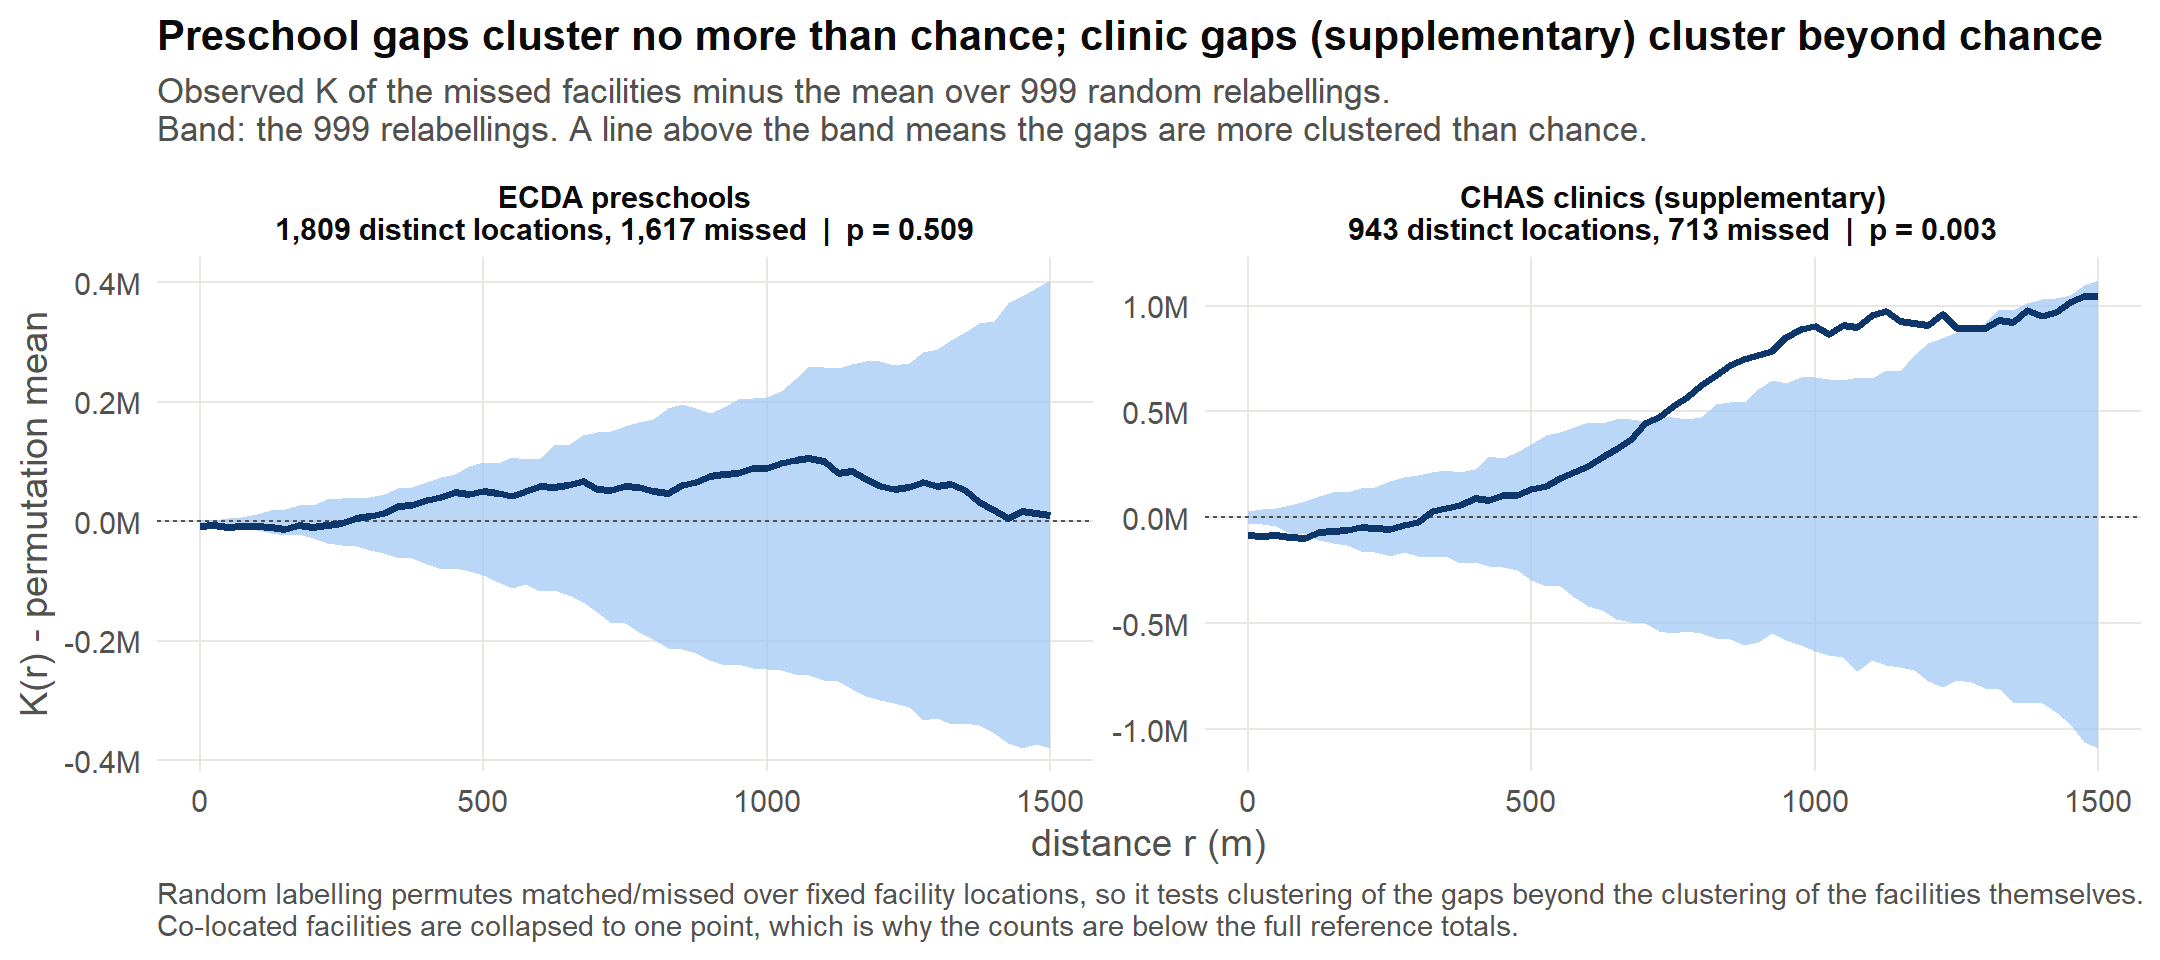
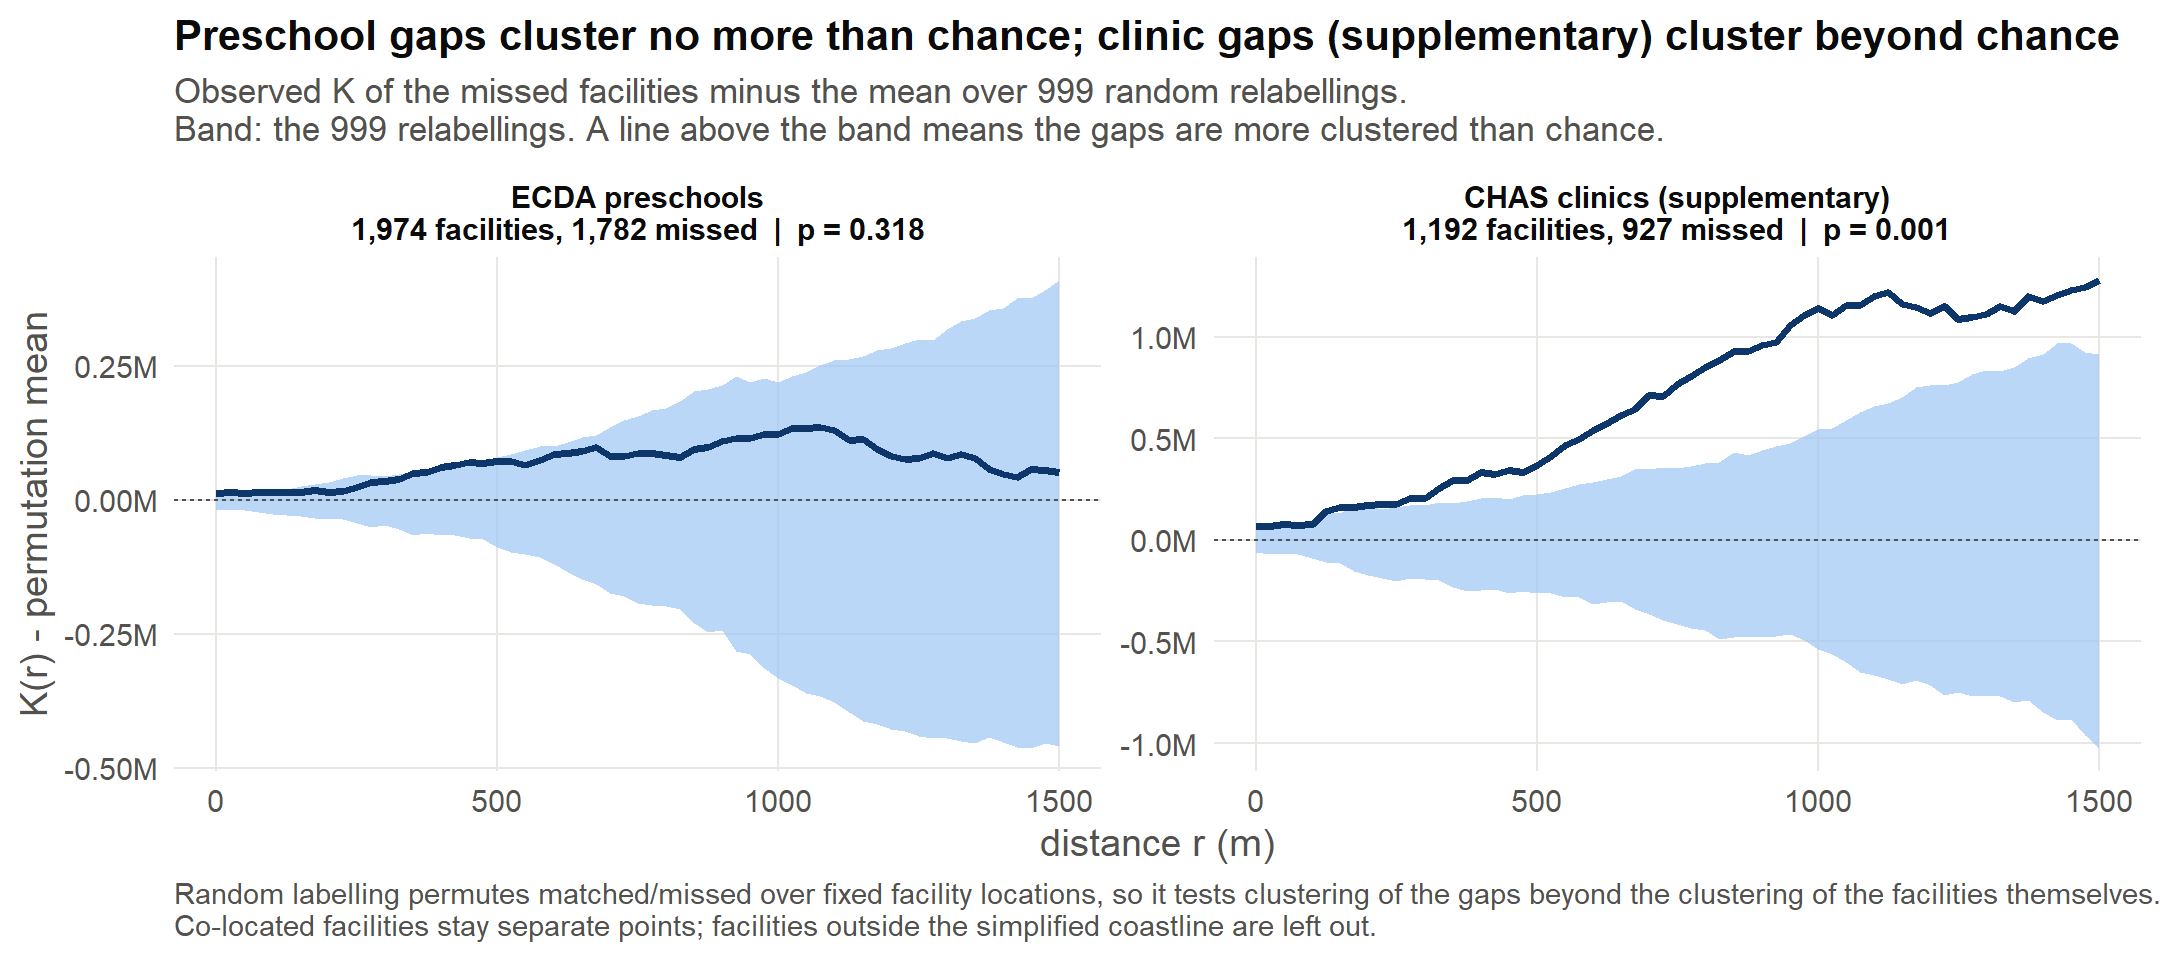
Keep co-located facilities in random labelling
unique.ppp() treats two points as duplicates only when their marks match
too. Run after the found/missed labels were attached, it collapsed
same-label pairs at one location (two missed preschools in one block)
but kept mixed pairs, so it thinned the pattern by the label under test
and removed the co-location clustering the test looks for. ECDA lost
165 points to it, all of them missed.

All facilities now stay as separate points; Kcross handles the
duplicates. The figure label and caption no longer speak of distinct
locations. The verdicts hold: ECDA n 1,809 -> 1,974, p 0.51 -> 0.32
(not clustered); CHAS n 943 -> 1,192, p 0.003 -> 0.001 (clustered).
One point per set still falls outside the simplified coastline window.

diff --git a/plans/coverage_check.md b/plans/coverage_check.md
@@ -25,8 +25,9 @@
 >   difference +0.8 pp, 95% CI −2.0 to +3.6 pp, **p = 0.61**. The arms detect a gap
 >   of **3.8 pp** at 80% power and alpha 0.05, so this null result does not come
 >   from low power.
-> - **Random labelling p = 0.51**: missed preschools cluster no more than the
->   preschools themselves.
+> - **Random labelling p = 0.32** (1,974 preschools, co-located ones kept as
+>   separate points): missed preschools cluster no more than the preschools
+>   themselves.
 > - **Logistic** `missed ~ maturity + dist_cbd_km`: non-mature **OR 0.36**
 >   (0.22–0.58, p < 0.001), distance OR 1.15 per km. The maturity effect from the
 >   old pooled fit survives on ECDA alone, but read it as supporting evidence
@@ -43,7 +44,7 @@
 >   prior sample size is kappa = 17.5.
 > - CHAS, supplementary: recall 22.2% (19.9–24.7%). Miss rate 78.6% mature vs
 >   73.4% non-mature, p = 0.06, MDD 7.4 pp. Logistic OR 0.53 (0.34–0.81).
->   Random labelling p = 0.003.
+>   Random labelling p = 0.001.
 >
 > - **Matcher error** (`06_matcher_error.R`, verdicts in
 >   `data/external/coverage_validation_verdicts.csv`, unsure rows excluded): ECDA
